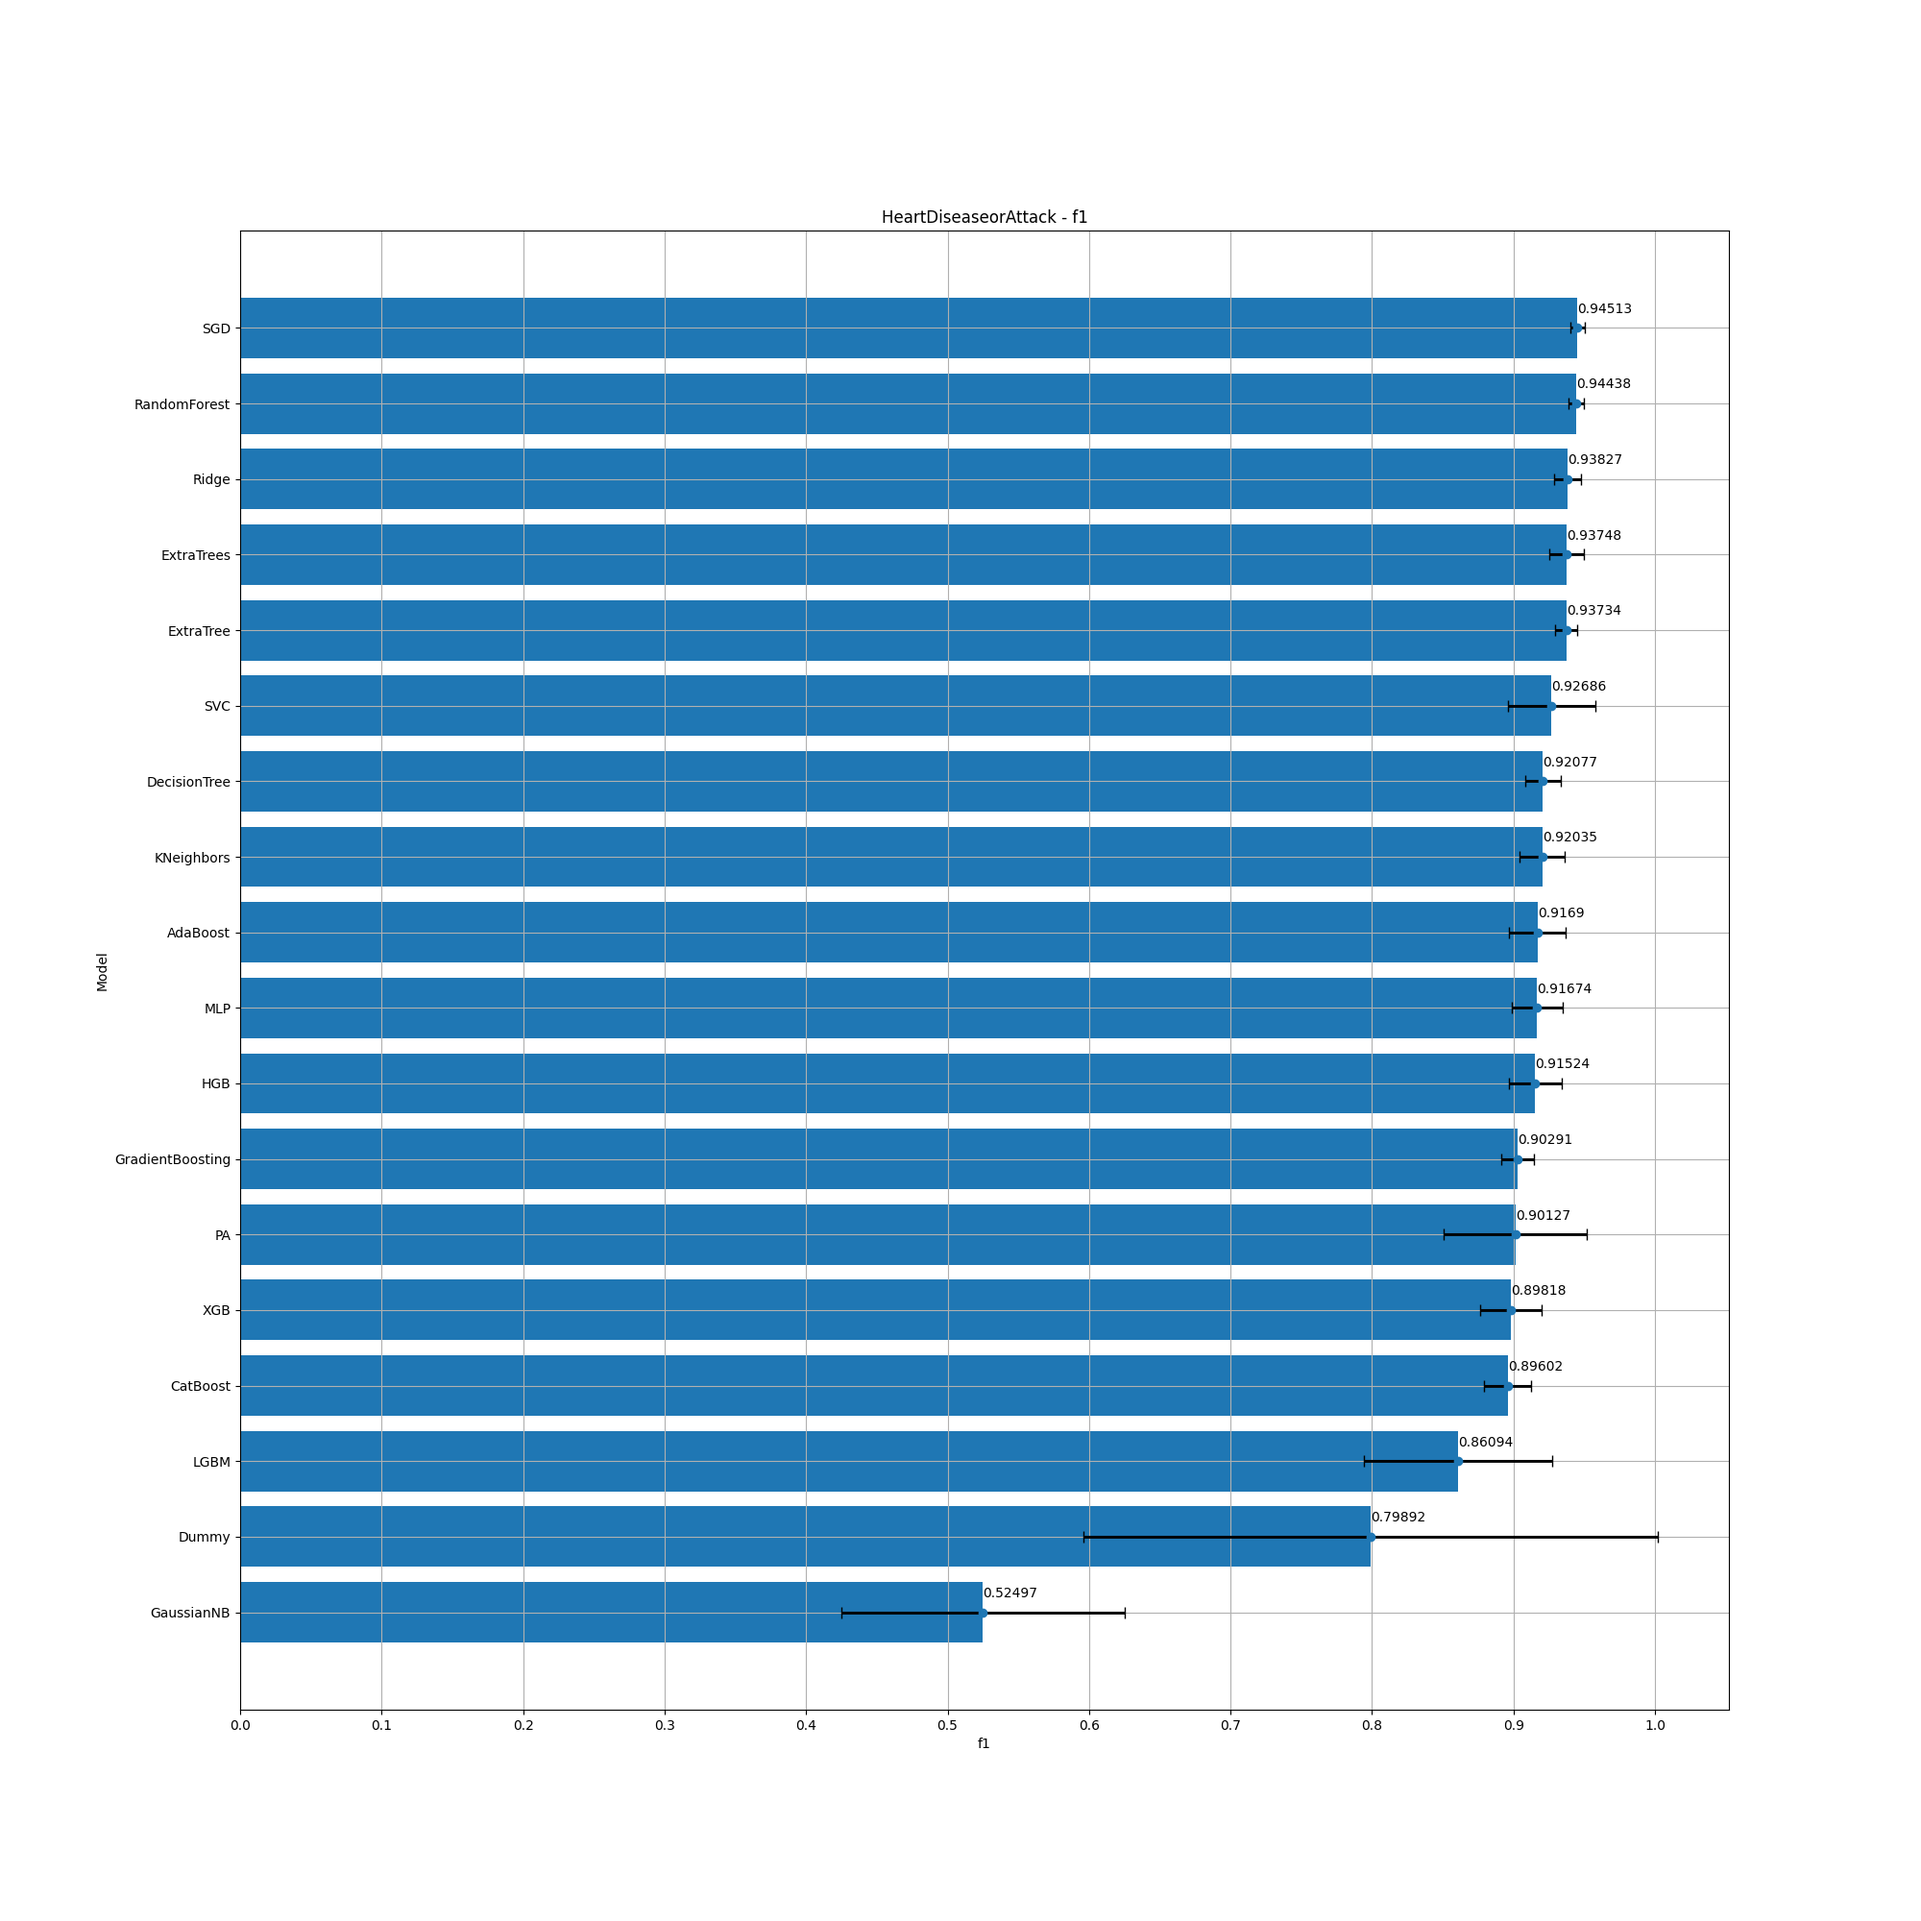
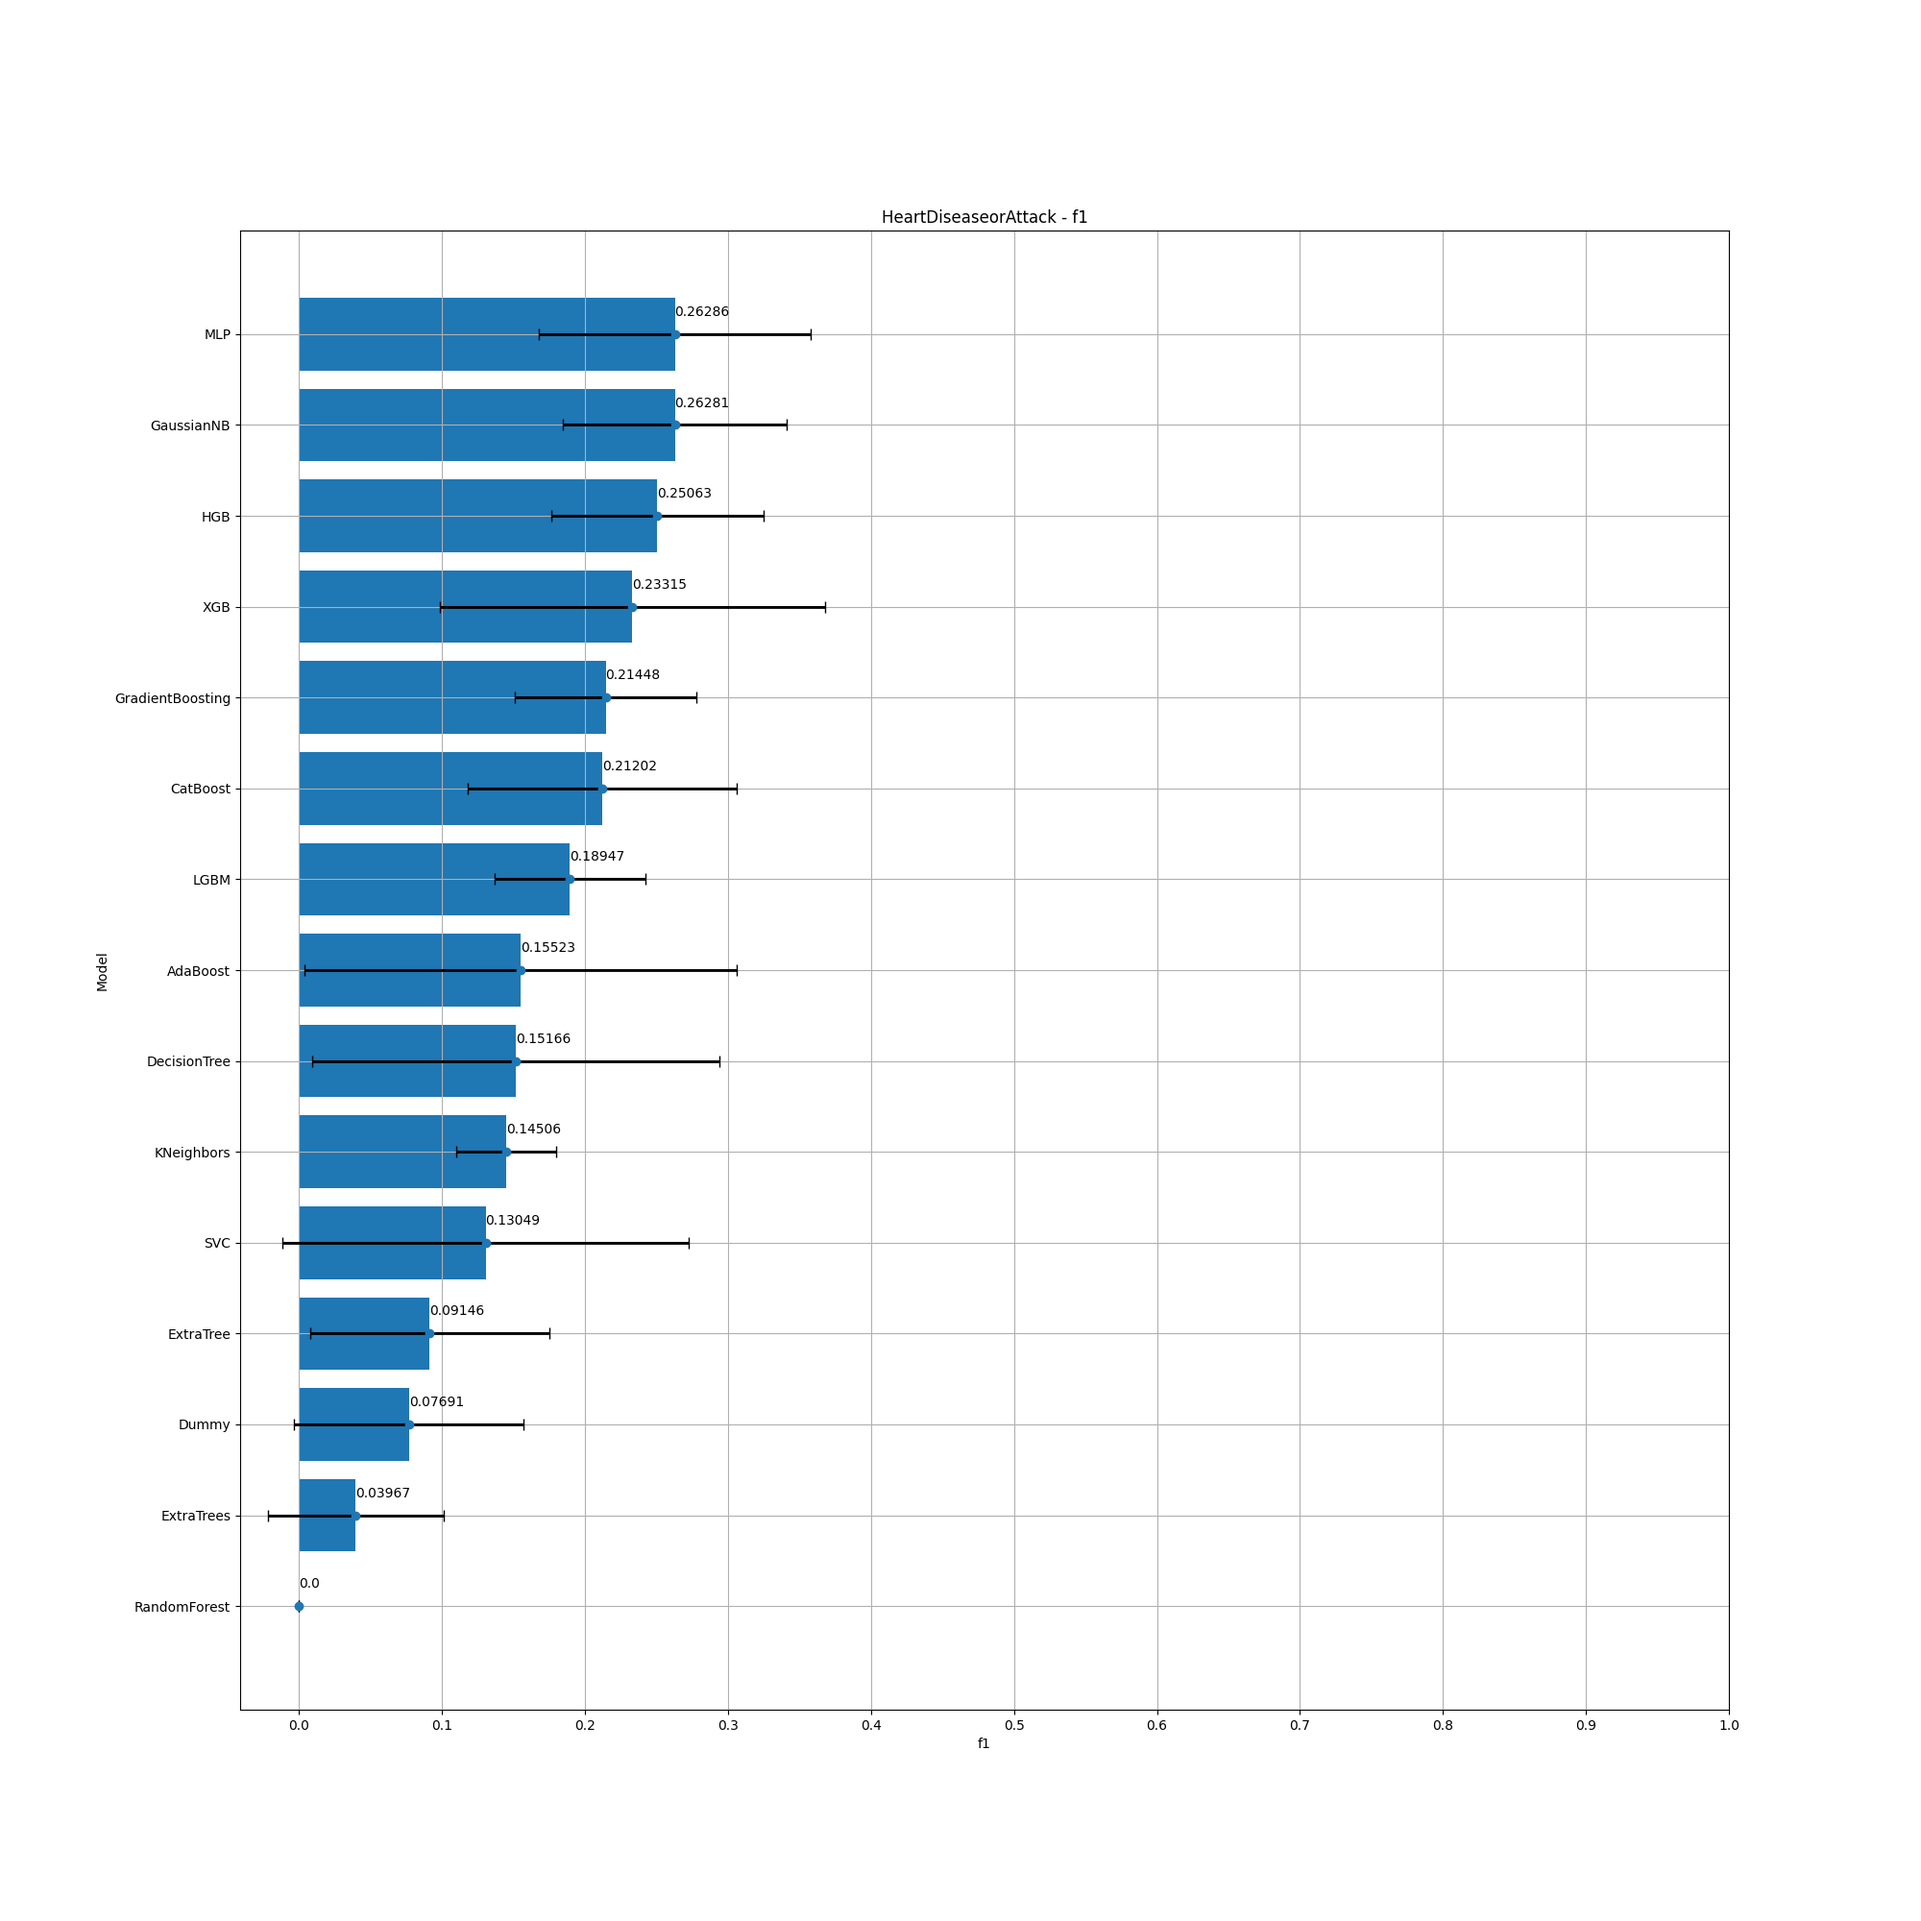
some changes

diff --git a/mtf/src/utils.py b/mtf/src/utils.py
@@ -1,32 +1,14 @@
 # Models
 # Mathematical
-import math
-import statistics as st
-
 from datetime import datetime
 from art import text2art
 import warnings
 import builtins
 
-# Metrics
-from sklearn.metrics import accuracy_score, precision_score, balanced_accuracy_score, f1_score, recall_score, log_loss
-
-# Functions
-
-
-def ammp(accuracy, precision, time_to_fit):
-    precision_reciprocal_sum = sum(precision.rdiv(1))
-    trials_num = len(accuracy)
-    accuracy_sum = sum(accuracy)
-    # Divide by 1000000 to convert nanoseconds to milliseconds
-    time_to_fit_ms = st.mean(time_to_fit/1000000)
-
-    return 0.14 * (trials_num / precision_reciprocal_sum) + 0.85 * (accuracy_sum / trials_num) - (0.01 * math.log(time_to_fit_ms, 12))
+from sklearn.metrics import log_loss, precision_score, recall_score
 
 
 def get_metric(y_pred, y_prob, y_test, metrics, train_time, predict_time):
-    global metric_params
-    global metric_options
 
     all_metrics = {}
 
@@ -40,26 +22,37 @@ def get_metric(y_pred, y_prob, y_test, metrics, train_time, predict_time):
             all_metrics[metric] = predict_time
         elif metric == "logloss":
             # Log Loss Metric
-            if y_prob is None:
-                all_metrics[metric] = 0
-            else:
-                all_metrics[metric] = log_loss(
-                    y_test, y_prob, labels=y_test.unique())
-        elif metric == "ammp":
-            # AMMP Metric
-            all_metrics[metric] = ammp(accuracy_score(
-                y_pred, y_test), precision_score(y_pred, y_test), train_time)
+            all_metrics[metric] = log_loss(
+                y_test, y_prob, labels=y_test.unique())
+        elif metric == "shscore":
+            # SHScore Metric
+            all_metrics[metric] = shscore(y_pred, y_prob, y_test)
         # Standard Metrics
-        elif metric in metric_options:
-            # Traditional metrics
-            metric_func = metric_options[metric]
-            parameters = metric_params[metric]
-            metric_value = metric_func(y_pred, y_test, **parameters)
-            all_metrics[metric] = metric_value
         else:
-            print(
-                f"Metric {metric} not found. Please check your spelling and try again.")
-            exit()
+            # import from sklearn
+            try:
+                metric_func = __import__(
+                    "sklearn.metrics", globals(), locals(), [metric], 0)
+            except ImportError:
+                print(
+                    f"Metric {metric} not found. Please check your spelling and try again.")
+                exit()
+
+            # Get metric function
+            # check if metric_func has averge option
+            # check if metric_func.metric_func has average option
+            # set metric_func to metric_func.metric_func
+            # set params to average=macro
+
+            if hasattr(metric_func, metric+"_score"):
+                metric_func = metric_func.__getattribute__(metric+"_score")
+
+            params = {}
+            if hasattr(metric_func, "average"):
+                params["average"] = "macro"
+
+            # Get metric score
+            all_metrics[metric] = metric_func(y_test, y_pred, **params)
 
     return all_metrics
 
@@ -69,10 +62,6 @@ def print_tags(tags, message):
     for value in tags:
         tag += f"[{value}] "
     print(f"{tag} {message}")
-
-
-def hasmethod(obj, method_name):
-    return hasattr(obj, method_name) and callable(getattr(obj, method_name))
 
 
 def print_header():
@@ -103,34 +92,19 @@ def fprime(y_true, y_pred):
     return 2 * (precision * specificity) / (precision + specificity)
 
 
-def scoring_function(estimator, X, Y):
+def aoc(y_pred, y_prob, y_test):
+    return log_loss(y_test, y_prob, labels=y_test.unique())
+
+
+def shscore(y_pred, y_prob, y_test):
+    return fprime(y_test, y_pred) - aoc(y_pred, y_prob, y_test)
+
+
+def shscorewrapper(estimator, X, Y):
 
     y_pred = estimator.predict(X)
+    y_prob = estimator.predict_proba(X)
 
-    score = fprime(Y, y_pred)
+    score = fprime(Y, y_pred) - aoc(y_pred, y_prob, Y)
 
     return score
-
-
-# Variables
-metric_options = {
-    'accuracy': accuracy_score,
-    'precision': precision_score,
-    'balanced_accuracy': balanced_accuracy_score,
-    'f1': f1_score,
-    'ammp': None,
-    'train_time': None,
-    'predict_time': None,
-    'recall': recall_score
-}
-
-metric_params = {
-    'accuracy': {},
-    'precision': {'average': 'weighted'},
-    'balanced_accuracy': {},
-    'f1': {'average': 'weighted'},
-    'recall': {'average': 'weighted'},
-    'ammp': {},
-    'train_time': {},
-    'predict_time': {}
-}

diff --git a/mtf/src/loop.py b/mtf/src/loop.py
@@ -7,12 +7,11 @@ import pandas as pd
 
 from models import model_options, model_params
 from save import ModelResults
-from utils import get_metric, hasmethod, print_tags, scoring_function
+from utils import get_metric, print_tags, shscorewrapper
 
 from sklearn.compose import ColumnTransformer
 from sklearn.model_selection import train_test_split
 from sklearn.preprocessing import OneHotEncoder, StandardScaler
-from sklearn.metrics import precision_score, recall_score
 
 from skopt import BayesSearchCV
 import pickle
@@ -189,10 +188,11 @@ class MTF(object):
                     opt = BayesSearchCV(
                         model,
                         model_params[model_name],
-                        scoring=scoring_function,
+                        scoring=shscorewrapper,
                         n_iter=self.tuning_iterations,
-                        # no cross validation as we are using train test split
-                        cv=2,
+                        # iterable for cv to do train test Split
+                        cv=[(np.arange(len(self.x_train)),
+                             np.arange(len(self.x_test)))],
                         verbose=0,
                     )
 
@@ -213,8 +213,7 @@ class MTF(object):
 
                     y_prob = None
                     # Get Model Probability
-                    if hasmethod(opt, 'predict_proba'):
-                        y_prob = opt.predict_proba(self.x_test)
+                    y_prob = opt.predict_proba(self.x_test)
 
                     # Calculate Metrics
                     performance = get_metric(

diff --git a/mtf/run_exp.py b/mtf/run_exp.py
@@ -12,6 +12,14 @@ print_header()
 
 client = docker.from_env()
 
+# delete previous containers that match mtf image
+# get all containers including stopped
+for container in client.containers.list(all=True):
+    for tag in container.image.tags:
+        if 'mtf' in tag:
+            print("Removing container: ", container.name)
+            container.remove(force=True)
+
 # parse arguments
 parser = argparse.ArgumentParser()
 
